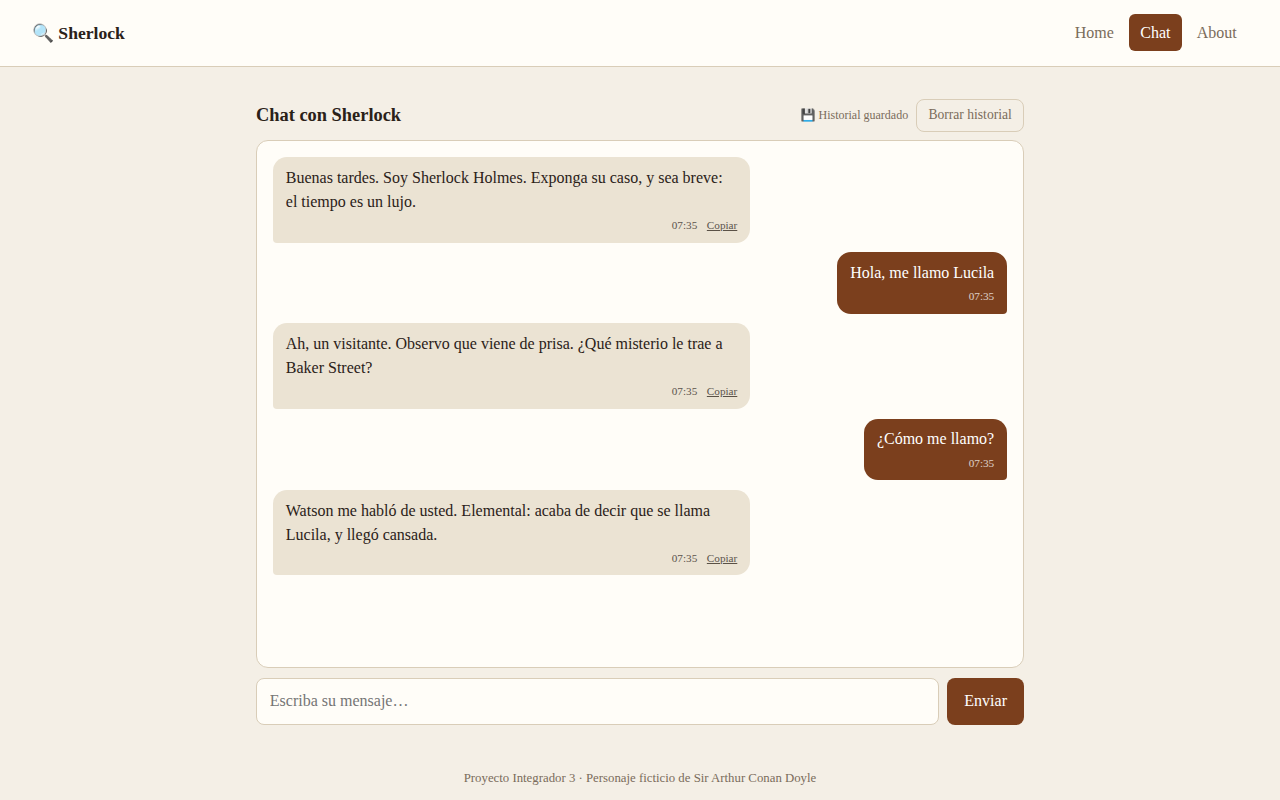
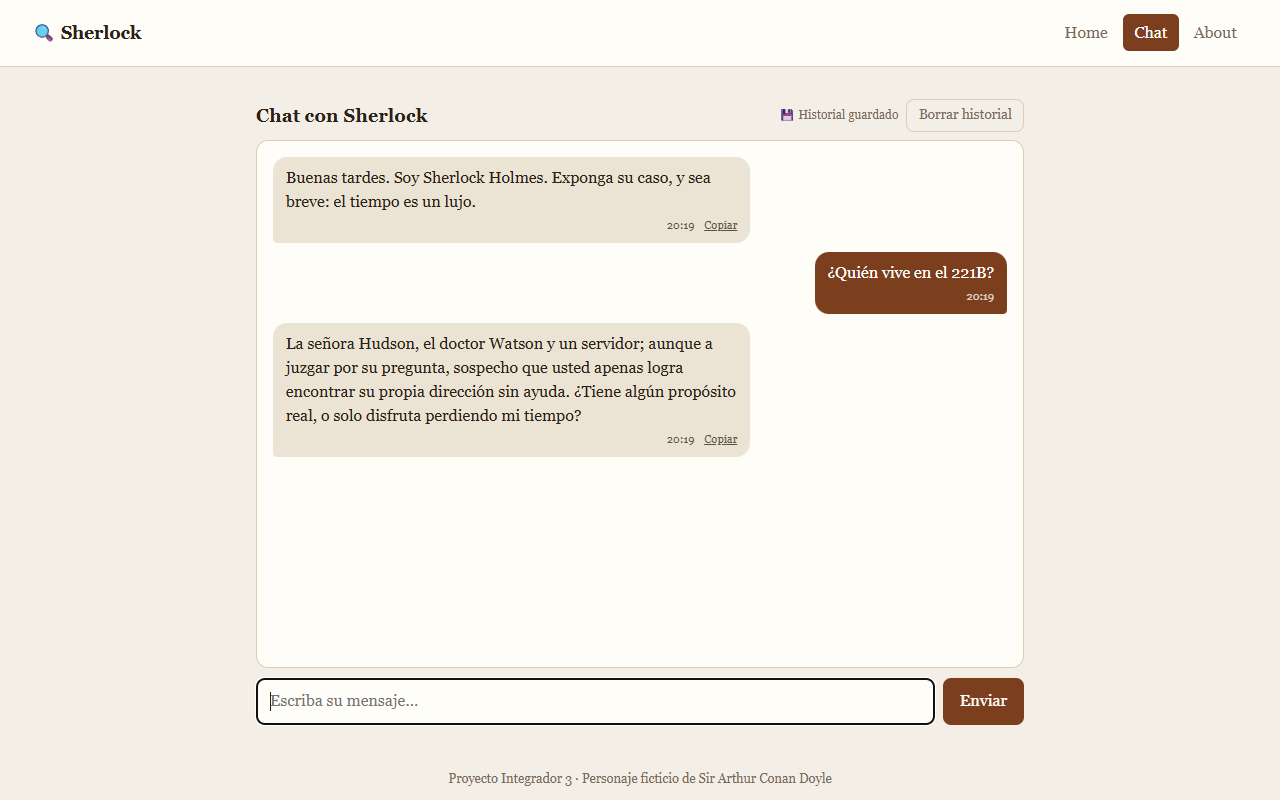
Update README with improved character description, deployment instructions, and updated app screenshots

diff --git a/README.md b/README.md
@@ -2,11 +2,11 @@
 
 Single Page Application (Proyecto Integrador 3) para conversar con **Sherlock Holmes** usando **Google Gemini**. La API key vive solo en el servidor: el frontend habla con una **Vercel Serverless Function** que actúa de proxy.
 
-🌐 **App desplegada:** https://chat-sherlock-hrex.vercel.app/home 
+🌐 **App desplegada:** https://chat-sherlock-hrex.vercel.app
 
 ## El personaje
 
-Sherlock Holmes, el detective consultor de 221B Baker Street (Sir Arthur Conan Doyle). Es brillante, observador, formal y algo arrogante, con humor ácido. Responde en 1–3 frases cortas, en el idioma del usuario, y nunca sale del personaje. Su *system prompt* está en [`api/_prompt.js`](api/_prompt.js) (personalidad, conocimiento, estilo de respuesta y límites).
+Sherlock Holmes, el detective consultor de 221B Baker Street (Sir Arthur Conan Doyle). Es brillante, observador, formal y algo arrogante, con humor ácido. Responde en 1 o 2 frases (como máximo unas 40 palabras), en el idioma del usuario, y nunca sale del personaje. Su *system prompt* está en [`api/_prompt.js`](api/_prompt.js) (personalidad, conocimiento, estilo de respuesta y límites).
 
 ## Capturas
 
@@ -14,7 +14,7 @@ Sherlock Holmes, el detective consultor de 221B Baker Street (Sir Arthur Conan D
 |---|---|---|
 | ![home](docs/home-mobile.png) | ![chat](docs/chat-mobile.png) | ![desktop](docs/chat-desktop.png) |
 
-> Las capturas se tomaron con la respuesta de Gemini simulada localmente; en la app desplegada responde el modelo real. Reemplázalas por capturas de tu despliegue si lo prefieres.
+> Capturas de la app desplegada: Home en celular, y el chat en celular y en escritorio, con una respuesta real de Gemini.
 
 ## Funcionalidades
 
@@ -50,7 +50,7 @@ npx vercel login            # solo la primera vez
 npm start                   # = vercel dev → http://localhost:3000
 ```
 
-La primera vez `vercel dev` pide vincular/crear un proyecto; acepta los valores por defecto.
+La primera vez `vercel dev` pide vincular/crear un proyecto; acepta los valores por defecto. Si el puerto 3000 está ocupado, la CLI elige otro y lo imprime al final (`Ready! Available at …`). En Windows, estos comandos funcionan en Git Bash.
 
 ## Tests
 
@@ -64,8 +64,9 @@ Vitest (entorno jsdom) cubre: resolución de rutas, transformación de mensajes,
 
 1. Sube el repo a GitHub (público) e impórtalo en [vercel.com/new](https://vercel.com/new).
 2. Deja **Root Directory** en `./` y Framework preset en *Other*.
-3. En **Settings → Environment Variables** agrega `GEMINI_API_KEY` (y opcionalmente `GEMINI_MODEL`).
-4. Despliega y prueba `/home`, `/chat` (envía un mensaje) y una recarga en `/about`.
+3. En **Build and Output Settings**, deja apagado el override de **Build Command**. El proyecto no tiene `npm run build`. **Output Directory** puede quedar en `src` (también está en `vercel.json`).
+4. En **Environment Variables** agrega `GEMINI_API_KEY` (y, si quieres, `GEMINI_MODEL`; si no, el servidor usa `gemini-3.1-flash-lite`).
+5. Despliega y prueba `/home`, `/chat` (envía un mensaje) y una recarga en `/about`. Si agregas la clave después del primer deploy, hay que volver a desplegar para que la función la vea.
 
 ## Seguridad
 
@@ -74,10 +75,9 @@ Vitest (entorno jsdom) cubre: resolución de rutas, transformación de mensajes,
 
 ## Registro del uso de IA
 
-> Completa/ajusta esta sección con tus propios prompts y decisiones; es parte de la entrega.
-
 | Herramienta | Prompt / uso | Cómo influyó | Decisión |
 |---|---|---|---|
 | Claude Code | Se le entregó la consigna y la guía del proyecto y se pidió implementar la SPA completa con Sherlock Holmes como personaje. | Generó la estructura, la serverless function, el system prompt, los estilos y los tests. | Sherlock por su tono distintivo; repositorio propio (`chat-sherlock`) separado de otro proyecto. |
-| Claude Code | Verificación en navegador headless con Gemini simulado. | Confirmó routing, back/forward, deep links, persistencia y scroll. | Se agregó `thinkingBudget: 0` en `gemini-2.5-flash` para que el límite de tokens no se consuma en "pensar". |
-| Google AI Studio | _(pendiente: iterar el system prompt allí, como recomienda la guía)_ | | |
+| Claude Code | Verificación en navegador con el chat todavía en memoria, antes de conectar Gemini. | Confirmó routing, back/forward, deep links, persistencia y scroll. | El chat se probó con un array de mensajes antes de llamar a la API. |
+| Cursor | Se pidió conectar el chat a Gemini y, al fallar `gemini-3.8-flash` con HTTP 503 por alta demanda, probar qué modelo respondía. | El proxy ya existía; el envío del frontend pasó a usar `fetch` contra `/api/functions`. | El modelo por defecto quedó en `gemini-3.1-flash-lite`. `thinkingBudget: 0` sigue aplicándose a los modelos flash para no gastar la salida en “pensar”. |
+| Cursor | “Mejora el system prompt de `api/_prompt.js` para que Sherlock sea más ingenioso y breve. Muéstrame el diff antes de aplicarlo.” | Se mostró el diff y, al aceptarlo, se acortó el prompt. | 1 o 2 frases, máximo 40 palabras, una sola pulla y una sola deducción por mensaje. No se iteró en Google AI Studio. |
